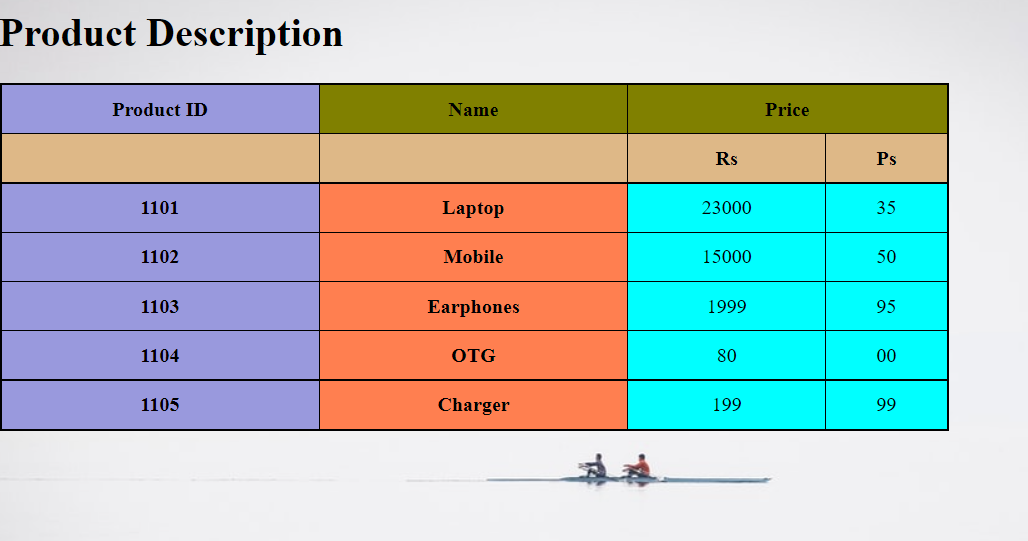
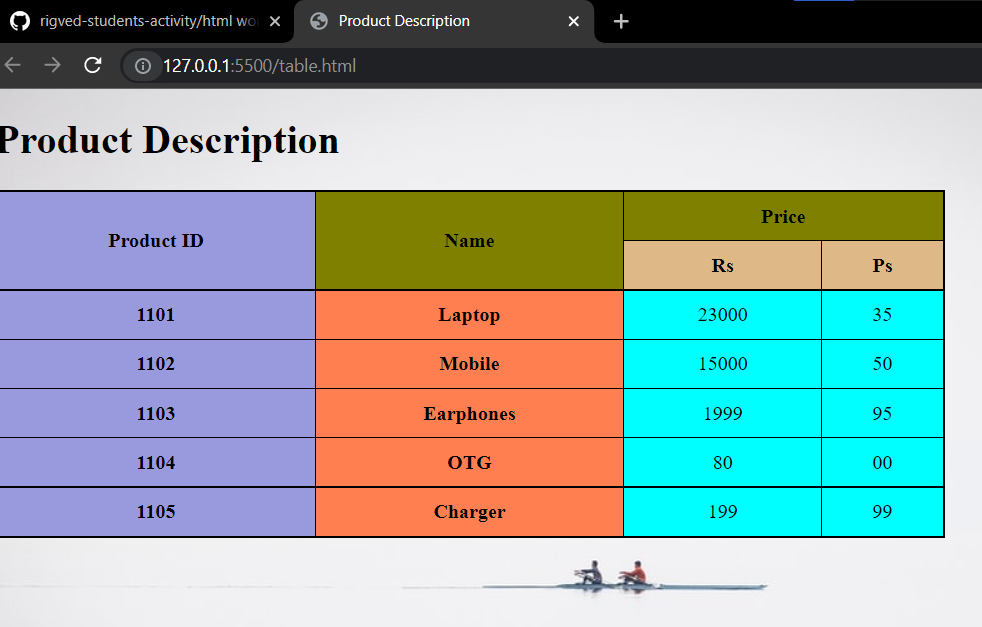
updated

diff --git a/html work/table.html b/html work/table.html
@@ -43,11 +43,11 @@
     <table border="1" cellpadding="10px">
         <thead>
             <tr align="center">
-                <th class="FirstColumn">Product ID</th><th>Name</th>
+                <th class="FirstColumn" rowspan="2" >Product ID</th><th rowspan="2">Name</th>
                 <th colspan="2">Price</th>
             </tr>
             <tr>
-                <th class="third_1"></th><th class="third_1"></th><th class="third_1">Rs</th><th class="third_1">Ps</th>
+               <th class="third_1">Rs</th><th class="third_1">Ps</th>
             </tr>
         </thead>
         <tbody>
